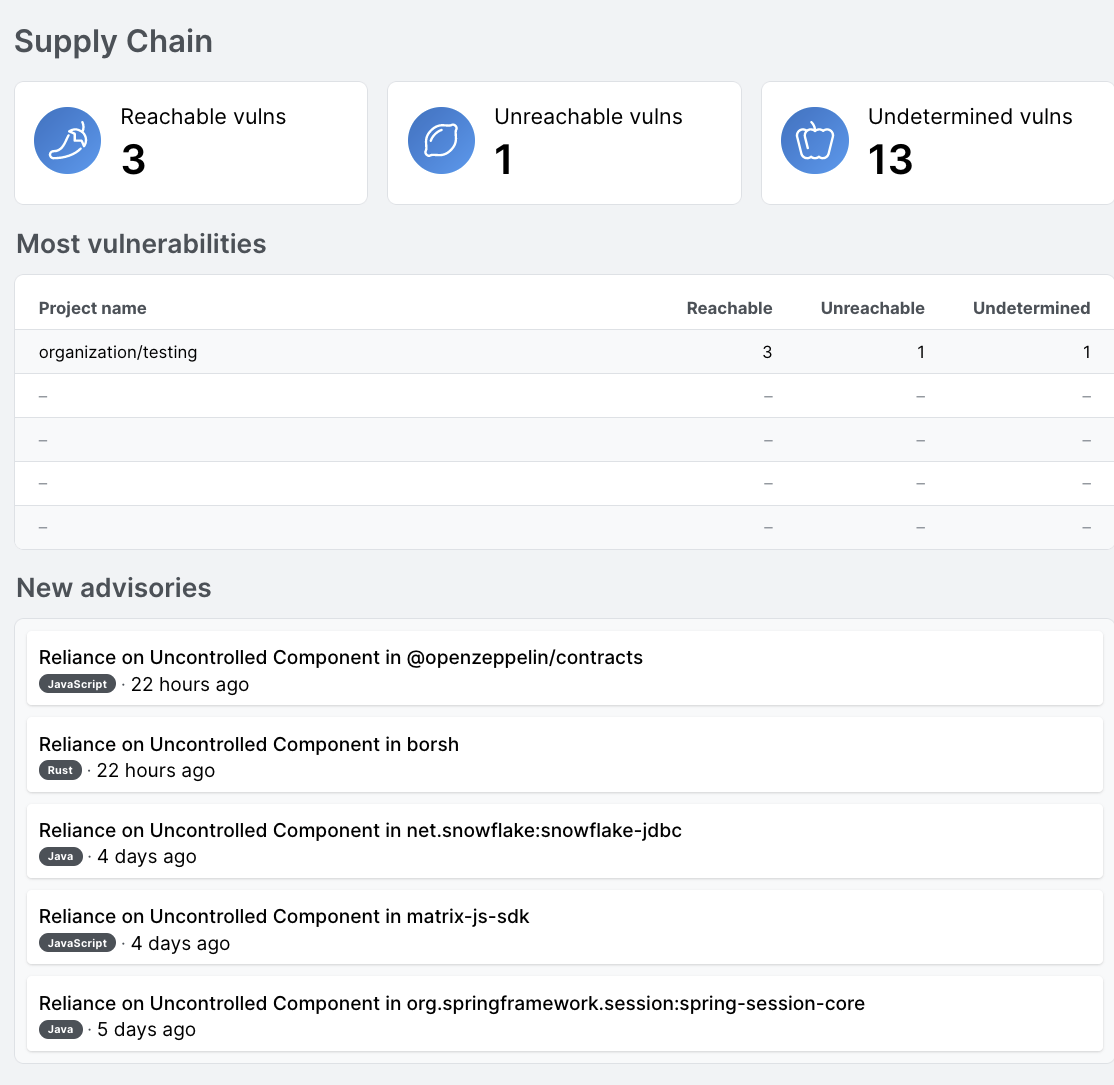
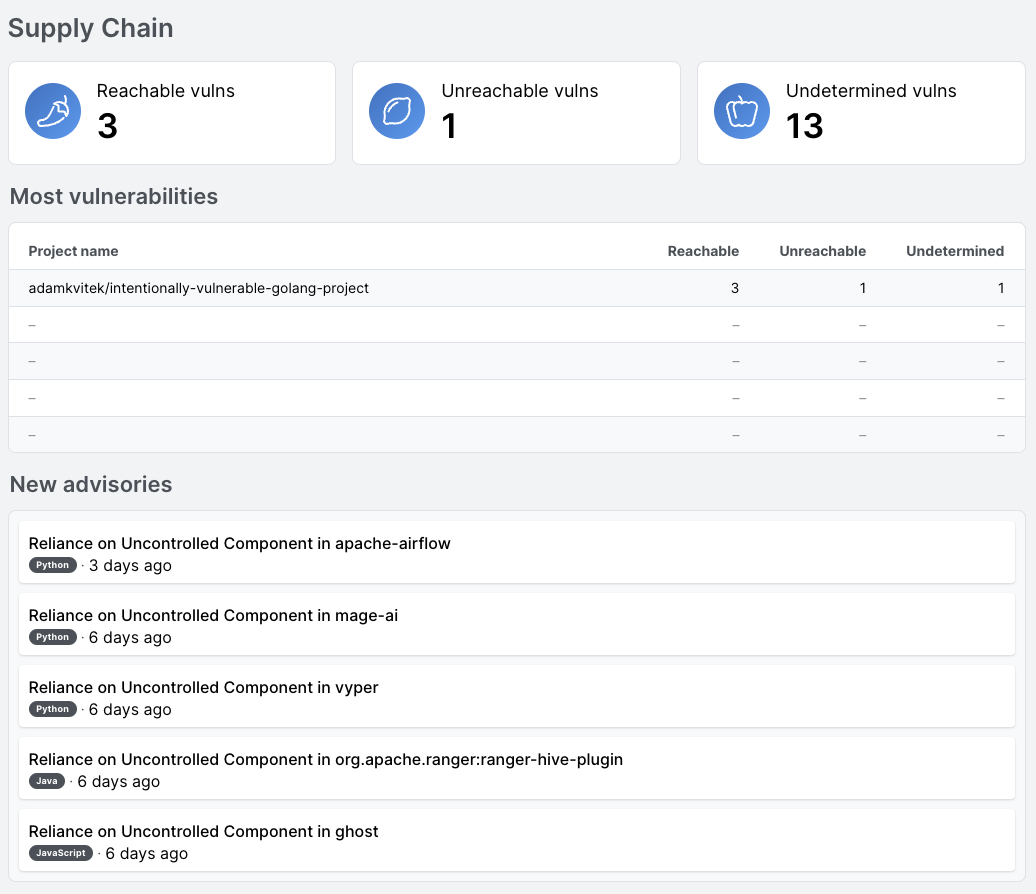
Update various sections of the document, update screenshots

diff --git a/docs/semgrep-cloud-platform/dashboard.md b/docs/semgrep-cloud-platform/dashboard.md
@@ -25,7 +25,7 @@ Object.entries(frontMatter).filter(
 
 ![Screenshot of dashboard view](/img/dashboard-view.png)
 
-The Findings Dashboard is an overview of your organization’s security posture from data aggregated within Semgrep Cloud Platform. With these metrics you can:
+The Dashboard is an overview of your organization’s security posture from data aggregated within Semgrep Cloud Platform. With these metrics you can:
 
 * View recurring security issues, consequently taking action on them.
 * Improve communication between developer teams and security teams.
@@ -39,12 +39,12 @@ You can access the Dashboard by [logging into Semgrep Cloud Platform](https://se
 
 The **Code widget** displays high-level security analytics across your entire organization. This includes:
 <dl>
+	<dt>High severity</dt>
+	<dd>High severity findings are findings generated by a rule with the severity value set to <code>ERROR</code>. These include security backdoors, highly vulnerable code. If you filter for another time period than <b>All time</b> the displayed number badge compares the number of high severity findings within the given time period against the previous time period.</dd>
 	<dt>Open findings</dt>
 	<dd>The number of open findings over the <b>given time period</b> next to the calendar icon. The badge number indicates whether this number has gone up or down compared to the previous timeframe. The number badge compares the most recent number of open findings against the previous timeframe.</dd>
-	<dt>High severity</dt>
-	<dd><a href='/semgrep-code/findings/#understanding-the-findings-data'>High severity findings</a> are findings generated by a rule with the severity value set to <code>ERROR</code>. These include security backdoors, highly vulnerable code, and so on. The number badge compares the number of high severity findings within the given time period against the previous time period.</dd>
-	<dt>Pull request (PR) fix rate</dt>
-	<dd>The percentage of findings that were fixed when findings were surfaced to developers via PR comments in previous scans. The number badge compares PR fix rate in the given time period against the previous time period.</dd>
+	<dt>Comment fix rate</dt>
+	<dd>The percentage of findings that were fixed when findings were surfaced to developers through PR or MR comments in previous scans. The number badge compares PR and MR fix rate in the given time period against the previous time period.</dd>
 </dl>
 
 ## Filtering findings by time
@@ -65,11 +65,11 @@ To change the projects filter:
 1. Click the <i class="fa-solid fa-sliders"></i> **All projects** button.
 2. Select the project(s) from the drop-down box. The Dashboard, including all widgets, reloads to reflect data from the selected project(s).
 
-## Summarizing a project’s security posture
+## Summarizing a projects security posture
 
-![Screenshot of dashboard projects](/img/dashboard-project.png)
+![Screenshot of dashboard projects](/img/dashboard-most-findings.png)
 
-The **Projects widget** displays open findings, high severities, and PR fix rates per-project. Through this view you can see which projects have the amount number of findings. The columns are arranged in a descending order, from the project with the greatest amount of findings to the least.
+The **Most findings** widget displays open findings, high severities, and fix rates per-project. Through this view you can see which projects have specific number of findings. The columns are arranged in a descending order, from the project with the greatest amount of findings to the least.
 
 To view the project’s findings, click on the project’s name. This takes you to the [Findings page](/semgrep-code/findings), where you can filter, sort, and triage findings.
 
@@ -77,13 +77,45 @@ To view the project’s findings, click on the project’s name. This takes you 
 
 ![Screenshot of dashboard rules widget](/img/dashboard-rules.png)
 
-The **Rules widget** provides a summary report for rule metrics, such as what rules are ignored or fired the most.
+The **Rules summary** widget provides a summary report for rule metrics, such as what rules are ignored or fired the most.
 
 These data points can serve as a starting point for the following security audits:
 
-- Investigating the relevance or quality of a rule — is it useful, or does it detect too many false positives?
+- Investigating the relevance or quality of a rule. For example: Is this rule useful, or does it detect too many false positives?
 - Are there underlying issues in the codebase that result in recurring patterns of insecure code?
-- Are there rules that developers don’t resolve? Semgrep helps identify these, which helps to form insights into possible causes.
+- Are there rules that developers don’t resolve? Semgrep helps identify such rules, which helps to form insights into possible causes.
+
+## Using Dashboard with Semgrep Supply Chain
+
+:::info Prerequisite
+To display Semgrep Supply Chain findings in Semgrep Dashboard enable Semgrep Supply Chain. See the [Getting started with Semgrep Supply Chain](/semgrep-supply-chain/getting-started/) article for more information.
+:::
+
+Semgrep Dashboard can display vulnerable dependency findings of Semgrep Supply Chain.
+
+![Screenshot of dashboard with Semgrep Supply Chain](/img/dashboard-with-supply-chain.png)
+
+Semgrep Supply Chain dashboard consists of three widgets:
+<dl>
+	<dt>Supply Chain header</dt>
+	<dd>Contains three </dd>
+	<dt>Most vulnerabilities</dt>
+	<dd>TODO</dd>
+	<dt>New advisories</dt>
+	<dd>TODO</dd>
+</dl>
+
+![Screenshot of three Semgrep Supply Chain widgets in Semgrep dashboard](/img/dashboard-supply-chain.png)
+
+## See also
+
+* [Semgrep Registry](https://semgrep.dev/explore)
+* [Findings](semgrep-code/findings)
+
+## Additional references
+
+* [OWASP Cheat Sheet Series](https://github.com/OWASP/CheatSheetSeries)
+
 
 <!--
 
@@ -132,35 +164,5 @@ The **Most disliked** metric is taken from the **Developer Feedback** feature. D
 ![Screenshot of developer feedback end flow](/img/dashboard-devfeedback2.png)
 
 -->
-
-## Using Dashboard with Semgrep Supply Chain
-
-:::info Prerequisite
-To display Semgrep Supply Chain findings in Semgrep Dashboard enable Semgrep Supply Chain. See the [Getting started with Semgrep Supply Chain](/semgrep-supply-chain/getting-started/) article for more information.
-:::
-
-Semgrep Dashboard can display vulnerable dependency findings of Semgrep Supply Chain.
-
-![Screenshot of dashboard with Semgrep Supply Chain](/img/dashboard-with-supply-chain.png)
-
-Semgrep Supply Chain dashboard consists of three widgets:
-- Supply Chain header
-- Most vulnerabilities
-- New advisories
-
-TODO test - add more repositories and try to filter by projects
-
-![Screenshot of three Semgrep Supply Chain widgets in Semgrep dashboard](/img/dashboard-supply-chain.png)
-
-
-
-## See also
-
-* [Semgrep Registry](https://semgrep.dev/explore)
-* [Findings](semgrep-code/findings)
-
-## Additional references
-
-* [OWASP Cheat Sheet Series](https://github.com/OWASP/CheatSheetSeries)
 
 <MoreHelp />
